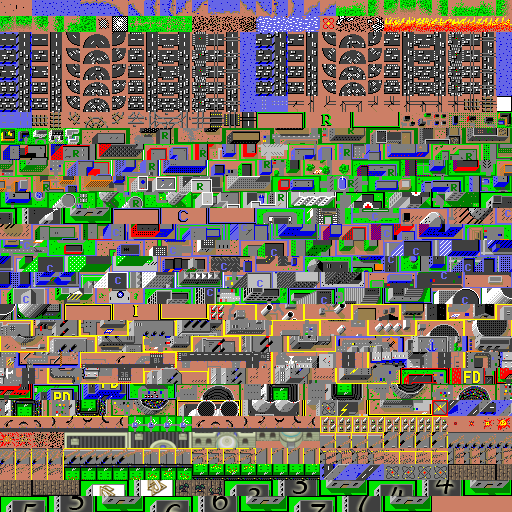
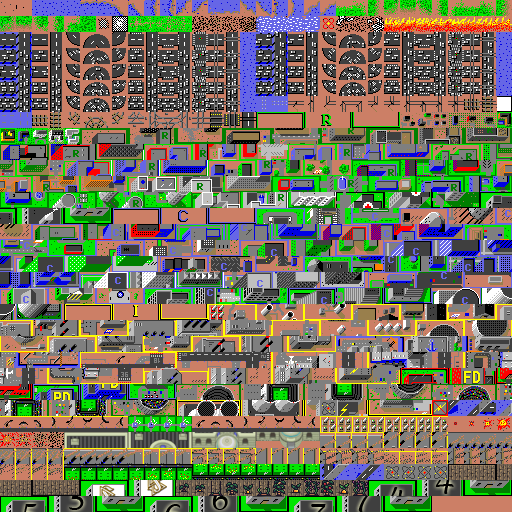
fixed field growth

Changed region(s): [[0.4062, 0.9375, 0.7188, 0.9688]]

diff --git a/src/valves.js b/src/valves.js
@@ -24,7 +24,7 @@ var Valves = EventEmitter(function () {
 
 
 var RES_VALVE_RANGE = 2000;
-var FIELD_VALVE_RANGE = 1500;
+var FIELD_VALVE_RANGE = 2000;
 var COM_VALVE_RANGE = 1500;
 var IND_VALVE_RANGE = 1500;
 
@@ -60,7 +60,8 @@ Valves.prototype.setValves = function(gameLevel, census, budget) {
   var projectedIndPopMin = 5.0;
   var resRatioDefault = 1.3;
   var resRatioMax = 2;
-  var fieldRatioMax = 2;
+  var fieldRatioDefault = 1.3;
+  var fieldRatioMax = 2;1
   var comRatioMax = 2;
   var indRatioMax = 2;
   var taxMax = 20;
@@ -69,20 +70,24 @@ Valves.prototype.setValves = function(gameLevel, census, budget) {
 
   // Residential zones scale their population index when reporting it to the census
   var normalizedResPop = census.resPop / resPopDenom;
-  census.totalPop = Math.round(normalizedResPop + census.fieldPop + census.comPop + census.indPop);
+  var normalizedFieldPop = census.fieldPop / resPopDenom; //even field has 8 pos as respopdenom 
+  census.totalPop = Math.round(normalizedResPop + normalizedFieldPop + census.comPop + census.indPop);
 
   // A lack of developed commercial and industrial and field zones means there are no employment opportunities, which constrain
   // growth. (This might hurt initially if, for example, the player lays out an initial grid, as the residential zones
   // will likely develop first, so the residential valve will immediately crater).
-  if (census.resPop > 0)
-    employment = (census.comHist10[1] + census.indHist10[1] + census.fieldHist10[1]) / normalizedResPop;
+  if (census.resPop > 0 || census.fieldPop > 0)
+    employment = (census.comHist10[1] + census.indHist10[1] + census.fieldHist10[1]) / (normalizedResPop + normalizedFieldPop);
   else
     employment = 1;
 
   // Given the employment rate, calculate expected migration, add in births, and project the new population.
   var migration = normalizedResPop * (employment - 1);
+  var migrationField= normalizedFieldPop * (employment - 1);
   var births = normalizedResPop * birthRate;
   var projectedResPop = normalizedResPop + migration + births;
+
+  var projectedFieldPop = normalizedFieldPop + migrationField + 0.15; //???????????
 
   // Examine how many zones require workers
   labourBase = census.comHist10[1] + census.indHist10[1] + census.fieldHist10[1];
@@ -94,9 +99,8 @@ Valves.prototype.setValves = function(gameLevel, census, budget) {
 
   // Project future industry and commercial needs, taking into account available labour, and competition from
   // other global cities
-  var internalMarket = (normalizedResPop + census.fieldPop + census.comPop + census.indPop) / internalMarketDenom;
+  var internalMarket = (normalizedResPop + normalizedFieldPop + census.comPop + census.indPop) / internalMarketDenom;
   var projectedComPop = internalMarket * labourBase;
-  var projectedFieldPop = internalMarket * labourBase; //???????????
   var projectedIndPop = census.indPop * labourBase * extMarketParamTable[gameLevel];
   projectedIndPop = Math.max(projectedIndPop, projectedIndPopMin);
 
@@ -108,10 +112,10 @@ Valves.prototype.setValves = function(gameLevel, census, budget) {
     resRatio = resRatioDefault;
 
   var fieldRatio;
-    if (census.fieldPop > 0)
-      fieldRatio = projectedFieldPop / census.fieldPop;
+    if (normalizedFieldPop > 0)
+      fieldRatio = projectedFieldPop / normalizedFieldPop; //
     else
-      fieldRatio = projectedFieldPop;
+      fieldRatio = fieldRatioDefault;   //
  
   var comRatio;
   if (census.comPop > 0)

diff --git a/src/census.js b/src/census.js
@@ -106,7 +106,7 @@ Census.prototype.take10Census = function(budget) {
   rotate10Arrays.call(this);
 
   this.resHist10[0] = Math.floor(this.resPop / resPopDenom);
-  this.fieldHist10[0] = this.fieldPop;
+  this.fieldHist10[0] = Math.floor(this.fieldPop / resPopDenom);
   this.comHist10[0] = this.comPop;
   this.indHist10[0] = this.indPop;
 
@@ -137,7 +137,7 @@ Census.prototype.take120Census = function() {
   var resPopDenom = 8;
 
   this.resHist120[0] = Math.floor(this.resPop / resPopDenom);
-  this.fieldHist120[0] = this.fieldPop;
+  this.fieldHist120[0] = Math.floor(this.fieldPop / resPopDenom);
   this.comHist120[0] = this.comPop;
   this.indHist120[0] = this.indPop;
   this.crimeHist120[0] = this.crimeHist10[0];

diff --git a/src/tile.js b/src/tile.js
@@ -365,9 +365,9 @@ Tile.CHURCH0        = 418; // numbered alias
 Tile.FIELDBASE      = 956;//Tile.RESBASE; // Empty field, tiles
 Tile.FREEF          = 960; //Tile.FREEZ; // center-tile of 3x3 empty field
 
-Tile.FARM           = 965; //Tile.HOUSE; // Single tile farms
+Tile.FARM           = 971; //Tile.HOUSE; // Single tile farms
 Tile.FFARM          = Tile.FARM; // first farm = first house
-Tile.LFARM          = 970; // Tile.HHTHR; // last farm = last house
+Tile.LFARM          = 982; // Tile.HHTHR; // last farm = last house
  
 Tile.FZB            = 975; //Tile.RZB; // center tile first 3x3 tile field
 

diff --git a/src/evaluation.js b/src/evaluation.js
@@ -98,7 +98,7 @@ Evaluation.prototype.getAssessedValue = function(census) {
 
 Evaluation.prototype.getPopulation = function(census) {
   var oldPopulation = this.cityPop;
-  this.cityPop = (census.resPop + (census.fieldPop + census.comPop + census.indPop) * 8) * 20;
+  this.cityPop = (census.resPop + census.fieldPop + (census.comPop + census.indPop) * 8) * 20;
   this.cityPopDelta = this.cityPop - oldPopulation;
 
   if (this.cityPopDelta !== 0)
